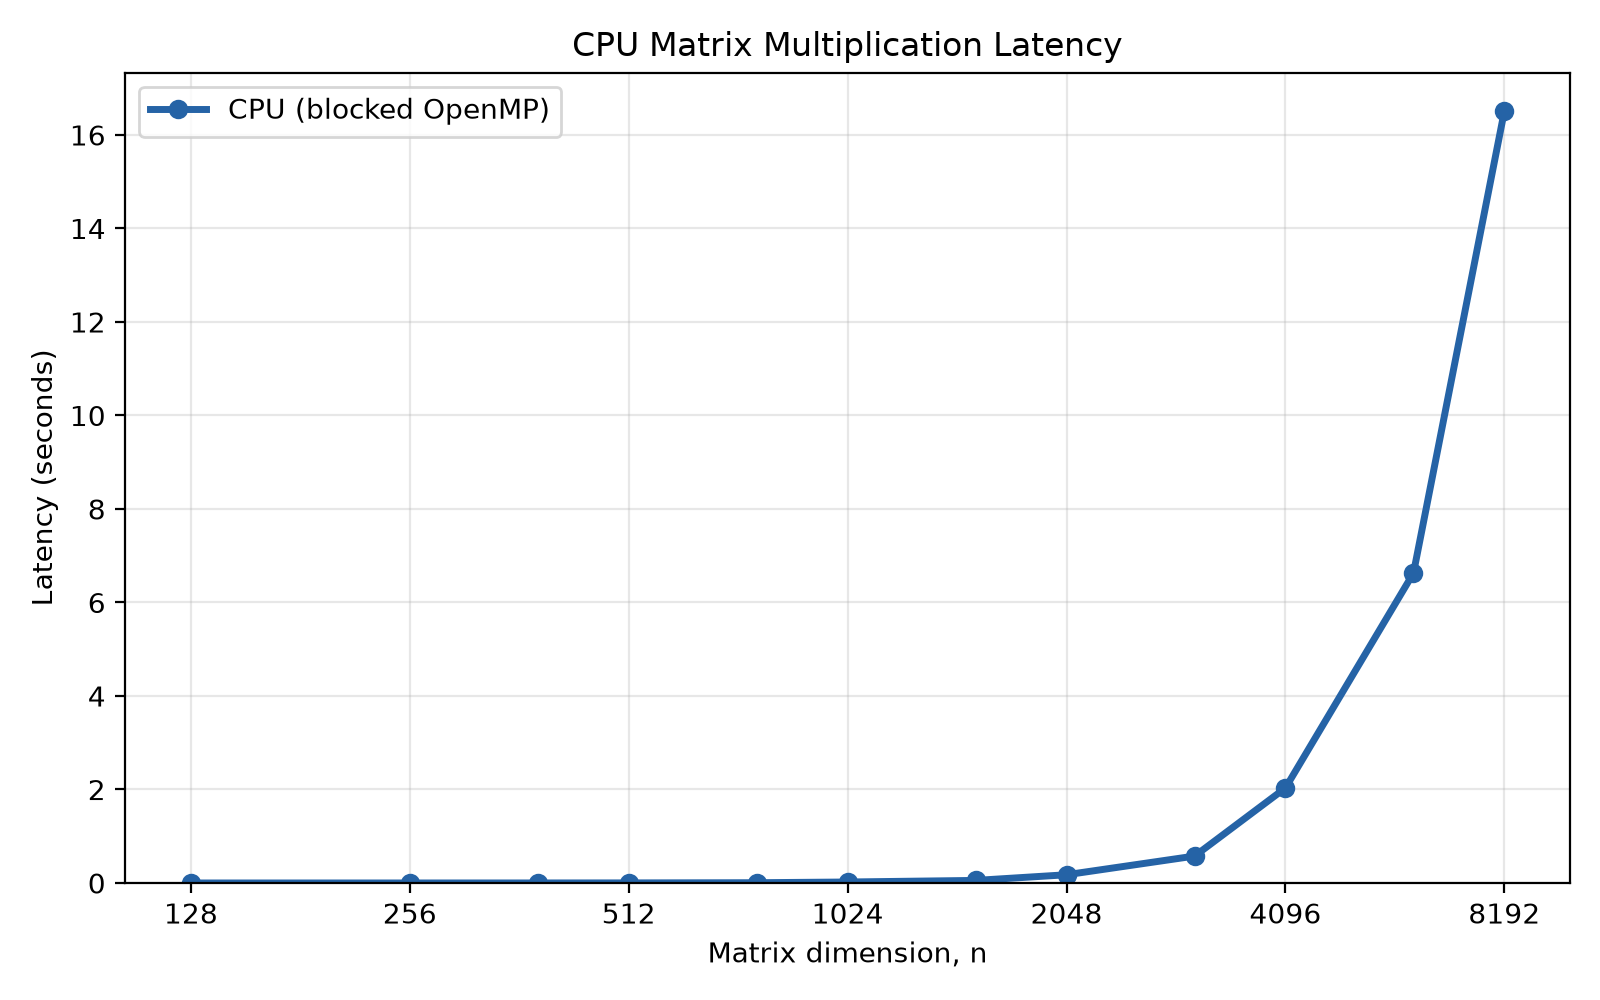
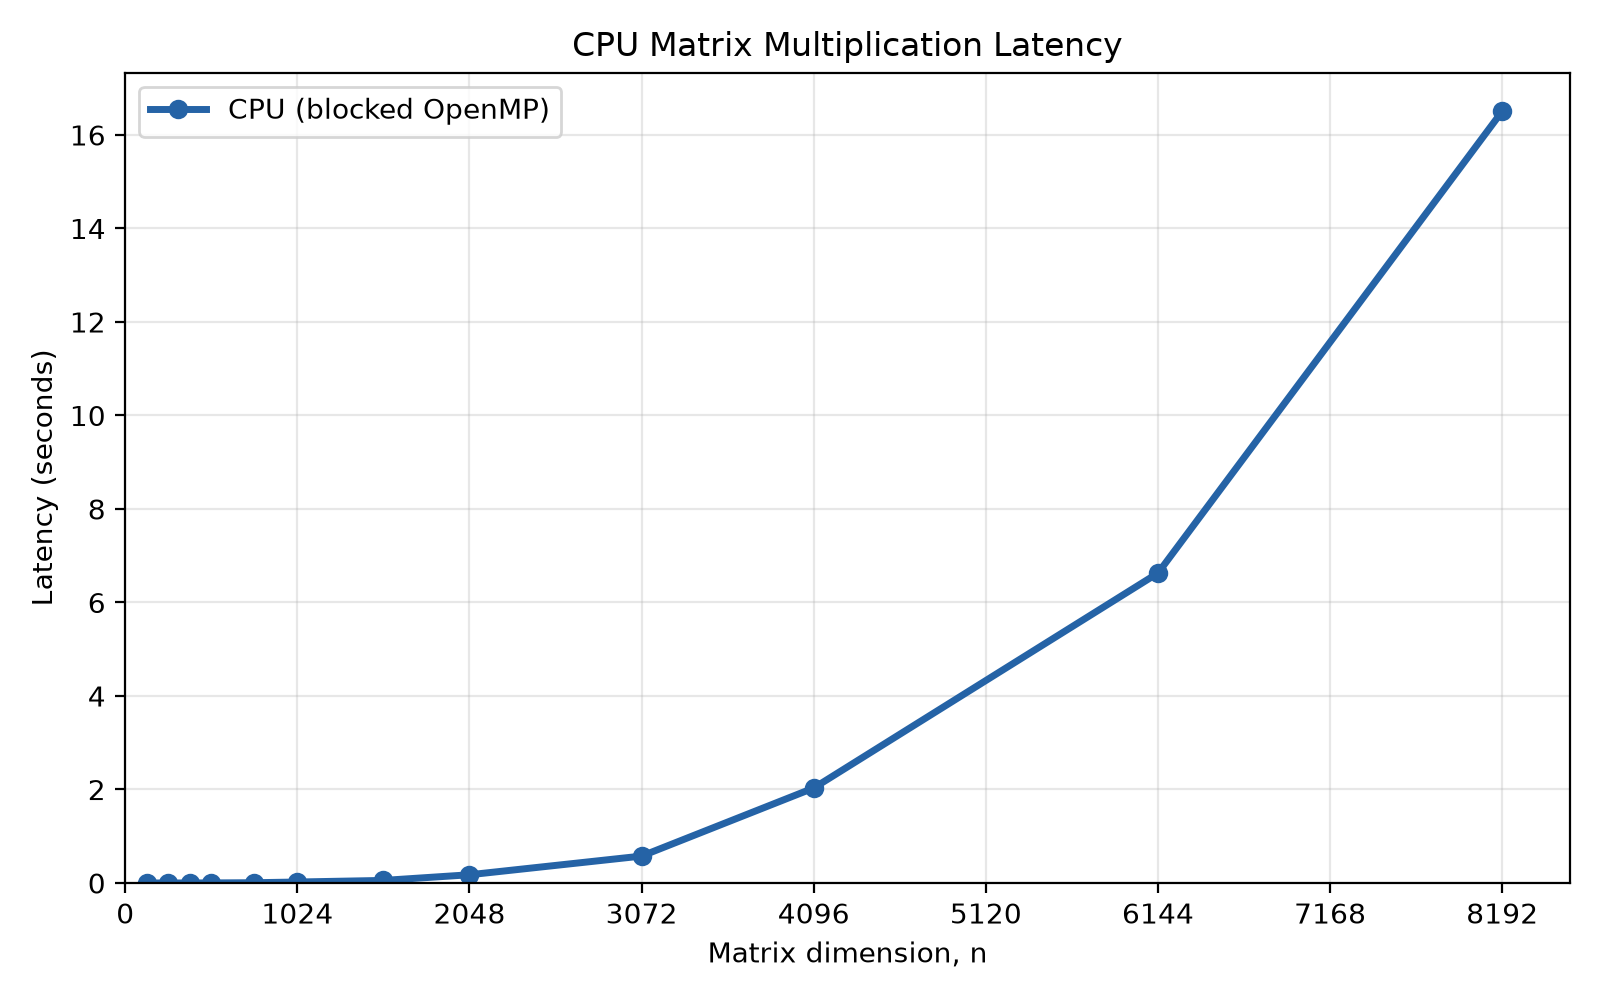
Use linear matrix-size axes

diff --git a/src/cs4630/plots.py b/src/cs4630/plots.py
@@ -5,7 +5,6 @@ import csv
 from pathlib import Path
 
 import matplotlib.pyplot as plt
-from matplotlib.ticker import ScalarFormatter
 
 
 ROOT = Path(__file__).resolve().parents[2]
@@ -31,13 +30,12 @@ def load_results(benchmark):
 
 def style_latency_axis(axis, title):
     """Apply shared formatting to a latency plot."""
-    axis.set_xscale("log", base=2)
+    axis.set_xlim(left=0)
     axis.set_ylim(bottom=0)
     axis.set_xlabel("Matrix dimension, n")
     axis.set_ylabel("Latency (seconds)")
     axis.set_title(title)
-    axis.set_xticks([128, 256, 512, 1024, 2048, 4096, 8192])
-    axis.xaxis.set_major_formatter(ScalarFormatter())
+    axis.set_xticks(range(0, 8193, 1024))
     axis.grid(True, which="major", alpha=0.3)
     axis.legend()
 
